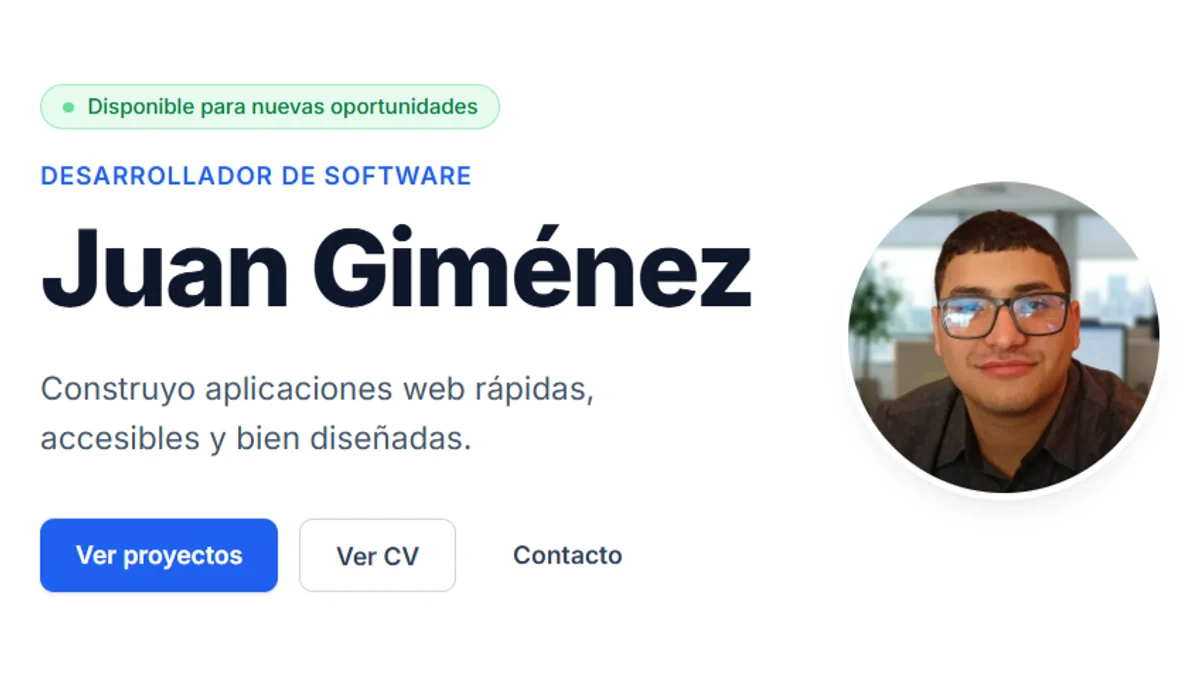
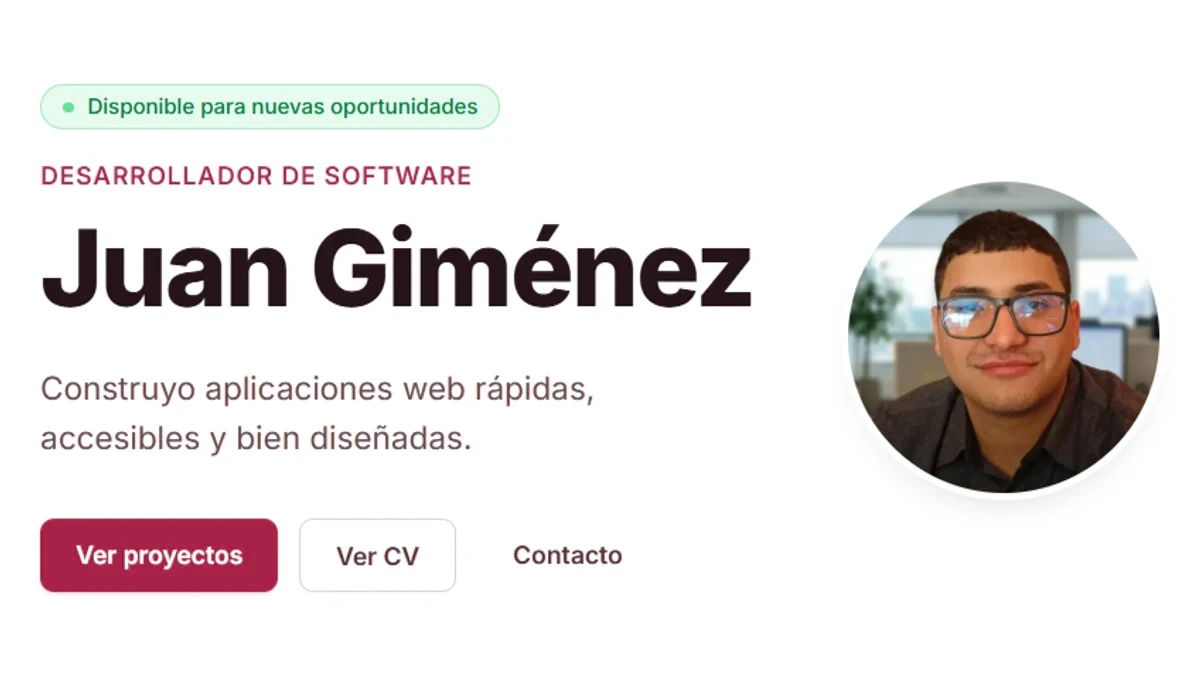
fix: recolour the portfolio cover to the wine palette

diff --git a/AGENTS.md b/AGENTS.md
@@ -219,6 +219,13 @@ is processed and path-checked. Each one carries a caption — an italic paragrap
 below, which `global.css` styles as such — and the caption must explain a decision rather
 than describe the picture.
 
+One cover is not like the others: `covers/portfolio.webp` is a screenshot of **this site**,
+so a design change dates it silently — the palette moved to wine and the cover kept the old
+blue for weeks. Nothing in the build can notice. When the site's look changes, retake it
+(or recolour it, as was done once) and check it against the tokens in `global.css`. The
+other covers show someone else's product and must **not** be brought in line with this
+palette; their own branding is the point.
+
 Covers go in `src/assets/covers/<slug>.webp` and are referenced from the project
 frontmatter by a path **relative to the `.md` file**
 (`../../../assets/covers/<slug>.webp`), which the `image()` schema helper
